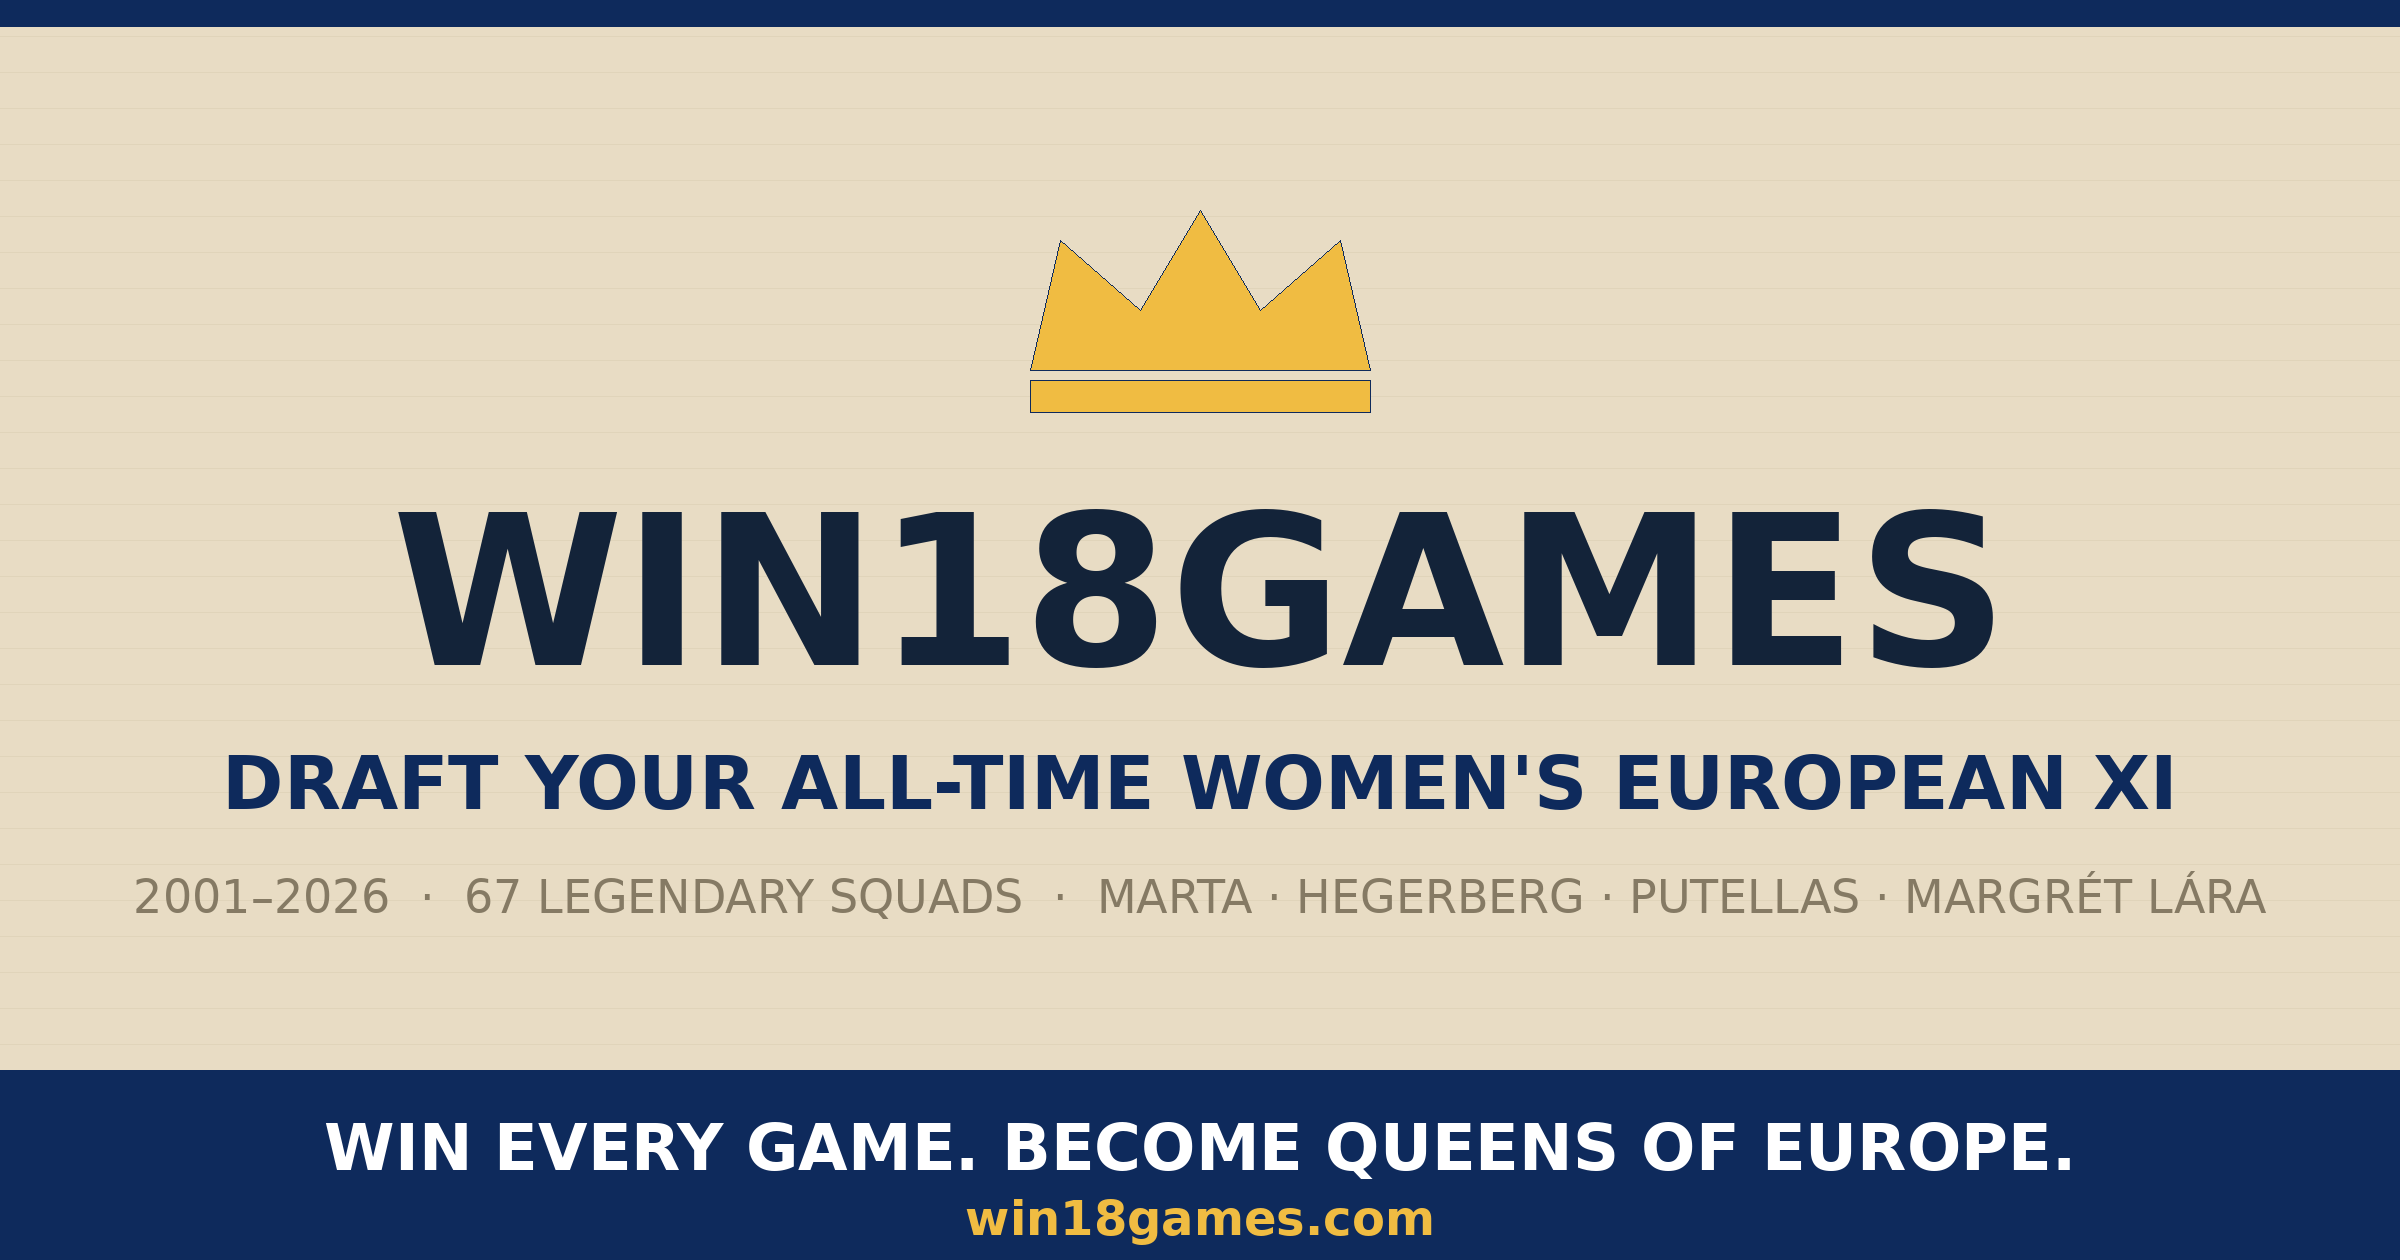
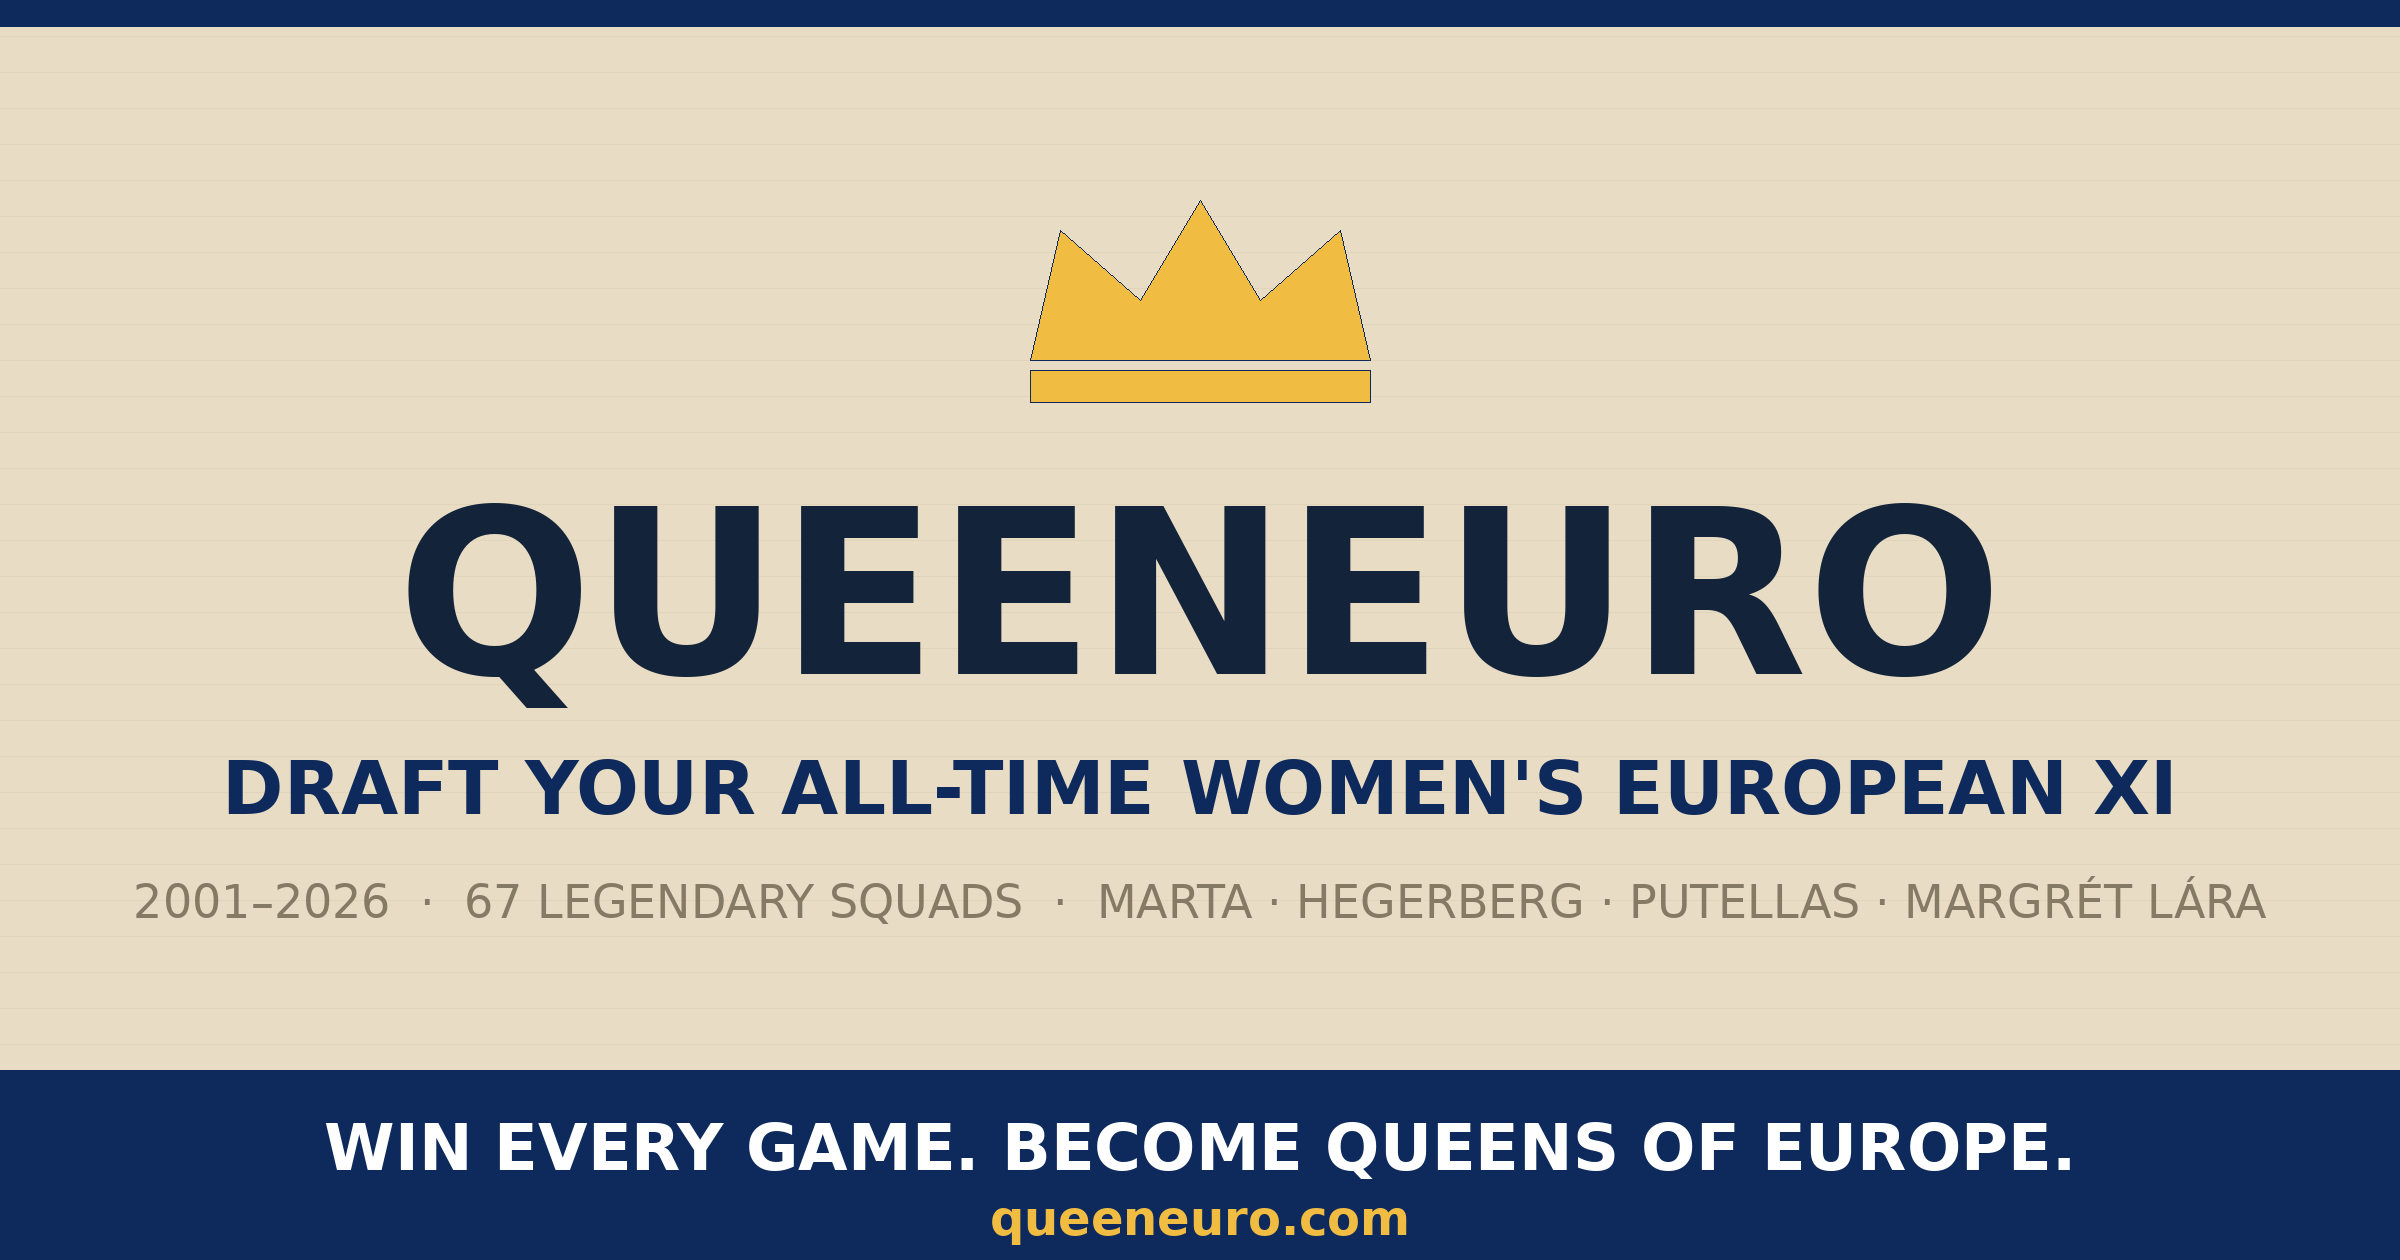
Rebrand to QueenEuro (queeneuro.com): title, meta, OG, JSON-LD, share cards, sitemap, robots, new OG image

diff --git a/index.html b/index.html
@@ -4,32 +4,32 @@
 <meta charset="UTF-8">
 <meta name="viewport" content="width=device-width, initial-scale=1.0, maximum-scale=1.0">
   <!-- Primary SEO -->
-  <title>Win18Games — Draft Your All-Time Women’s European XI</title>
+  <title>QueenEuro — Draft Your All-Time Women’s European XI</title>
   <meta name="description" content="Draft your ultimate women’s European XI from 25 years of Champions League history. Pick players from legendary squads — Marta, Prinz, Hegerberg, Putellas, Bonmatí, Margrét Lára and more — then conquer Europe. Free to play.">
   <meta name="keywords" content="women’s champions league draft, women’s football draft game, all-time XI, uefa women’s cup history, pick your team, Marta, Hegerberg, Putellas, Bonmatí, Prinz, women’s football history game">
-  <meta name="author" content="win18games.com">
+  <meta name="author" content="queeneuro.com">
   <meta name="robots" content="index, follow">
-  <link rel="canonical" href="https://win18games.com/">
+  <link rel="canonical" href="https://queeneuro.com/">
   <link rel="icon" href="/favicon.ico" sizes="any">
   <link rel="icon" type="image/png" sizes="32x32" href="/favicon-32.png">
   <link rel="icon" type="image/png" sizes="16x16" href="/favicon-16.png">
   <link rel="apple-touch-icon" sizes="180x180" href="/apple-touch-icon.png">
   <meta property="og:type" content="website">
-  <meta property="og:url" content="https://win18games.com/">
+  <meta property="og:url" content="https://queeneuro.com/">
   <meta property="og:title" content="Win every game. Become Queens of Europe.">
   <meta property="og:description" content="Draft an all-time women’s XI from 67 legendary European squads — Marta, Hegerberg, Putellas, Margrét Lára — then survive the league phase and the knockouts. Only ~5% lift the trophy. Free, no signup.">
-  <meta property="og:image" content="https://win18games.com/og-image.png">
+  <meta property="og:image" content="https://queeneuro.com/og-image.png">
   <meta property="og:image:width" content="2400">
   <meta property="og:image:height" content="1260">
-  <meta property="og:site_name" content="win18games.com">
+  <meta property="og:site_name" content="queeneuro.com">
   <meta property="og:locale" content="en_US">
   <meta name="twitter:card" content="summary_large_image">
-  <meta name="twitter:url" content="https://win18games.com/">
+  <meta name="twitter:url" content="https://queeneuro.com/">
   <meta name="twitter:title" content="Win every game. Become Queens of Europe.">
   <meta name="twitter:description" content="Draft an all-time women’s XI from 67 legendary European squads and go all the way. Only ~5% lift the trophy.">
-  <meta name="twitter:image" content="https://win18games.com/og-image.png">
+  <meta name="twitter:image" content="https://queeneuro.com/og-image.png">
   <script type="application/ld+json">
-  {"@context":"https://schema.org","@type":"WebApplication","name":"Win18Games","url":"https://win18games.com/","description":"Draft your ultimate women’s European football XI from Champions League history.","applicationCategory":"GameApplication","genre":"Sports","operatingSystem":"Any","offers":{"@type":"Offer","price":"0","priceCurrency":"USD"}}
+  {"@context":"https://schema.org","@type":"WebApplication","name":"QueenEuro","url":"https://queeneuro.com/","description":"Draft your ultimate women’s European football XI from Champions League history.","applicationCategory":"GameApplication","genre":"Sports","operatingSystem":"Any","offers":{"@type":"Offer","price":"0","priceCurrency":"USD"}}
   </script>
   <!-- Vercel Analytics -->
   <script>window.va = window.va || function () { (window.vaq = window.vaq || []).push(arguments); };</script>
@@ -433,7 +433,7 @@ body{font-family:var(--font-ui);background:var(--bg);color:var(--ink);
 <div id="root"></div>
 <noscript>
   <main style="font-family:sans-serif;max-width:800px;margin:40px auto;padding:0 20px">
-    <h1>Win18Games — Draft Your All-Time Women’s European XI</h1>
+    <h1>QueenEuro — Draft Your All-Time Women’s European XI</h1>
     <p>Draft your ultimate women’s European squad from the greatest players in history. Pick from 67 legendary club squads spanning the UEFA Women’s Cup and Women’s Champions League, 2001–2026 — Marta, Birgit Prinz, Ada Hegerberg, Alexia Putellas, Aitana Bonmatí, Margrét Lára Viðarsdóttir and hundreds more, including every great Icelandic side from Breiðablik, Valur, KR, Stjarnan and Þór/KA.</p>
     <h2>How to play</h2>
     <p>You get 11 rounds. In each round you are shown a legendary European club squad and must pick one player. Fill your formation — goalkeeper, defenders, midfielders, forwards — then play a full European campaign in the modern Women’s Champions League format: a six-game league phase among 18 teams, a play-off round, and two-legged knockouts all the way to the final.</p>
@@ -2231,7 +2231,7 @@ Object.assign(window, {
     ctx.fillStyle = '#857a64';
     ctx.font = 'bold 26px Arial, sans-serif';
     ctx.textAlign = 'left';
-    ctx.fillText('WIN18GAMES.COM', 48, 48);
+    ctx.fillText('QUEENEURO.COM', 48, 48);
     ctx.textAlign = 'right';
     ctx.font = '24px Arial, sans-serif';
     ctx.fillText(new Date().getFullYear(), W - 48, 48);
@@ -2303,7 +2303,7 @@ Object.assign(window, {
     ctx.fillText('CAN YOU CONQUER EUROPE?', W/2, footerY + 52);
     ctx.fillStyle = '#F0BC42';
     ctx.font = 'bold 30px Arial, sans-serif';
-    ctx.fillText('win18games.com', W/2, footerY + 96);
+    ctx.fillText('queeneuro.com', W/2, footerY + 96);
   }
 
   function generateShareImage({ fk, placements, result, onToast }) {
@@ -2317,8 +2317,8 @@ Object.assign(window, {
     canvas.toBlob(blob => {
       const file = new File([blob], 'my-womens-european-xi.png', {type: 'image/png'});
       const shareText = result && v
-        ? `${v.grade} grade \u2014 ${result.placeLabel}. Can you conquer Europe?\nhttps://win18games.com`
-        : `My all-time women's European XI \u2014 can you conquer Europe?\nhttps://win18games.com`;
+        ? `${v.grade} grade \u2014 ${result.placeLabel}. Can you conquer Europe?\nhttps://queeneuro.com`
+        : `My all-time women's European XI \u2014 can you conquer Europe?\nhttps://queeneuro.com`;
       const isMobile = /Mobi|Android|iPhone|iPad/i.test(navigator.userAgent);
       if (isMobile && navigator.share && navigator.canShare && navigator.canShare({files: [file]})) {
         navigator.share({files: [file], title: 'Women\u2019s European Draft', text: shareText}).catch(() => {
@@ -2338,7 +2338,7 @@ Object.assign(window, {
         copyBtn.textContent = '🔗 Copy link';
         copyBtn.style.cssText = 'padding:12px 24px;border-radius:999px;border:none;background:#fff;color:#111;font-weight:700;font-size:15px;cursor:pointer;';
         copyBtn.onclick = () => {
-          navigator.clipboard.writeText('https://win18games.com').then(() => {
+          navigator.clipboard.writeText('https://queeneuro.com').then(() => {
             copyBtn.textContent = 'Copied ✓';
             setTimeout(() => { copyBtn.textContent = '🔗 Copy link'; }, 2000);
           });